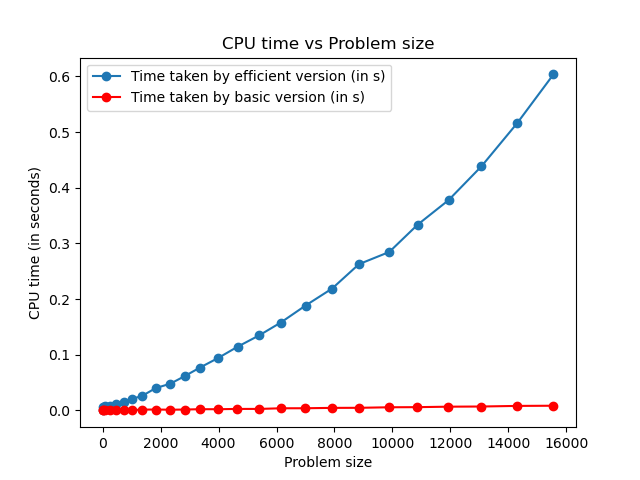
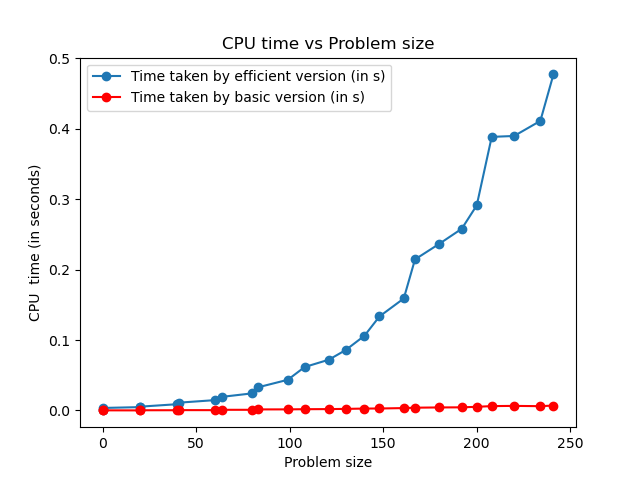
Included bash script to run the programs; updated the script.py to average the time and memory over multiple iterations

diff --git a/graph_plot/script.py b/graph_plot/script.py
@@ -4,22 +4,27 @@ from matplotlib import markers
 import pandas as pd
 import matplotlib.pyplot as plt
 
-def plot(opt_df, non_opt_df):
+# The scale parameter converts the Y-axis to logarithmic scale
+def plot(opt_df, non_opt_df, scale_y=True):
     # gca stands for 'get current axis'
+    y_label = 'Scaled time(Logarithmic)' if scale_y else 'time'
     ax = plt.gca()
     opt_df.plot(kind='line',x='problem_size',y='time',ax=ax, marker='o')
     non_opt_df.plot(kind='line',x='problem_size',y='time', color='red', ax=ax, marker='o')
+    if scale_y:
+        plt.yscale('log')
     plt.xlabel('Problem size')
-    plt.ylabel('CPU time (in seconds)')
+    plt.ylabel(f'CPU {"Log Scaled" if scale_y else ""} time (in seconds)')
     plt.title('CPU time vs Problem size')
     plt.legend(['Time taken by efficient version (in s)', 'Time taken by basic version (in s)'])
     plt.savefig('CPUPlot.png')
     plt.show()
+
     ax = plt.gca()
     opt_df.plot(kind='line',x='problem_size',y='memory',ax=ax, marker='o')
     non_opt_df.plot(kind='line',x='problem_size',y='memory', color='red', ax=ax, marker='o')
     plt.xlabel('Problem size')
-    plt.ylabel('Memory (in Kb)')
+    plt.ylabel(f'Memory usage (in Kb)')
     plt.title('Memory usage vs Problem size')
     plt.legend(['Memory usage by efficient version (in Kb)', 'Memory usage by basic version (in Kb)'])
     plt.savefig('MemoryPlot.png')
@@ -51,23 +56,8 @@ def readfile(file_name):
     return time, memory, X_len, Y_len
 
 def main():
-    ct, iterations = 100, 100
+    ct, iterations = 10, 20
     params = {}
-    # string_list = generate_random_strings(ct)
-    # writeToFile(string_list)
-
-    """
-    {
-        optimized = [{'time': float, 'memory': float}, {}, {}.....]
-    }
-    """
-
-    """
-    params = {
-        input: [opt, non_opt],
-    }
-    """
-
     for itr in range(iterations):
         ct = 100
         string_list = generate_random_strings(ct)
@@ -78,9 +68,9 @@ def main():
             os.system(f'python efficient.py ./files/input{ct+1}.txt ./files/efficient/output{ct+1}.txt')
             os.system(f'python basic.py ./files/input{ct+1}.txt ./files/basic/output{ct+1}.txt')
             time, memory, X_len, Y_len = readfile(f'./files/efficient/output{ct+1}.txt')
-            optimized.append({'time': time, 'memory': memory, 'X_len': X_len, 'Y_len': Y_len, 'problem_size': X_len*Y_len})
+            optimized.append({'time': time, 'memory': memory, 'X_len': X_len, 'Y_len': Y_len, 'problem_size': X_len+Y_len})
             time, memory, X_len, Y_len = readfile(f'./files/basic/output{ct+1}.txt')
-            non_optimized.append({'time': time, 'memory': memory, 'X_len': X_len, 'Y_len': Y_len, 'problem_size': X_len*Y_len})
+            non_optimized.append({'time': time, 'memory': memory, 'X_len': X_len, 'Y_len': Y_len, 'problem_size': X_len+Y_len})
     
         if params.get(f'input'):
             opt, non_opt = params[f'input']
@@ -88,11 +78,11 @@ def main():
         else:
             params[f'input'] = [divide(optimized, iterations), divide(non_optimized, iterations)]
 
-        print(f'Iteration {itr+1} done')
+        print(f'Iteration {itr+1}/{iterations} done')
     optimized, non_optimized = params['input'][0], params['input'][1]
     opt_pd = pd.DataFrame(optimized)
     non_opt_pd = pd.DataFrame(non_optimized)
-    plot(opt_pd, non_opt_pd)
+    plot(opt_pd, non_opt_pd, scale_y=False)
 
 
 def add_values(prev, current, iterations=10):
